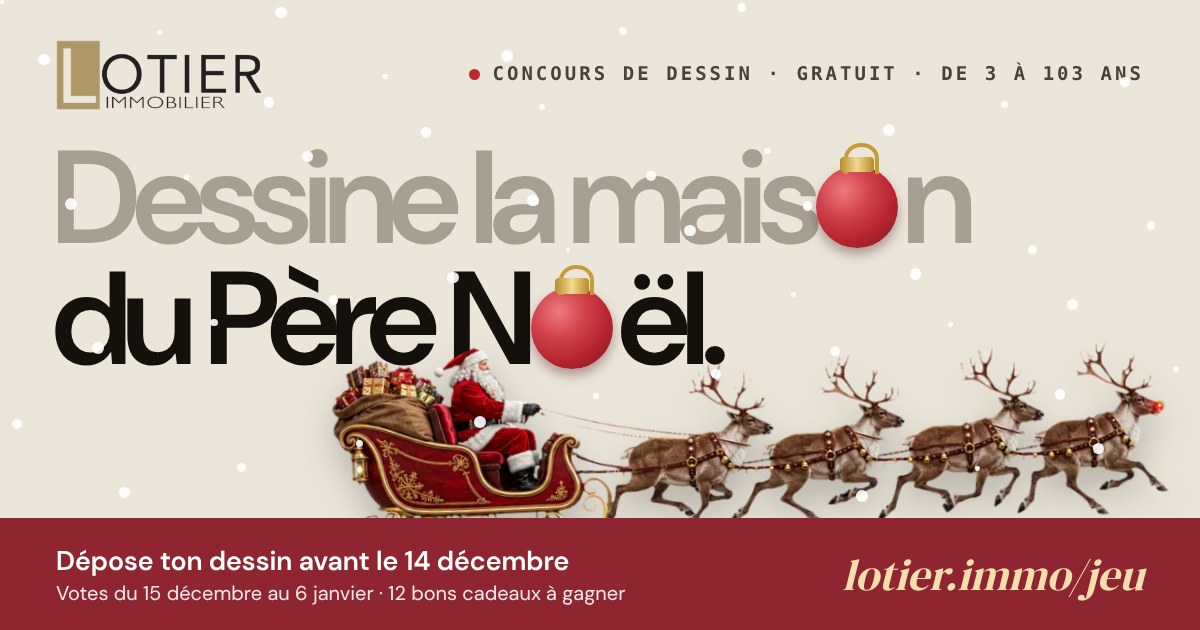
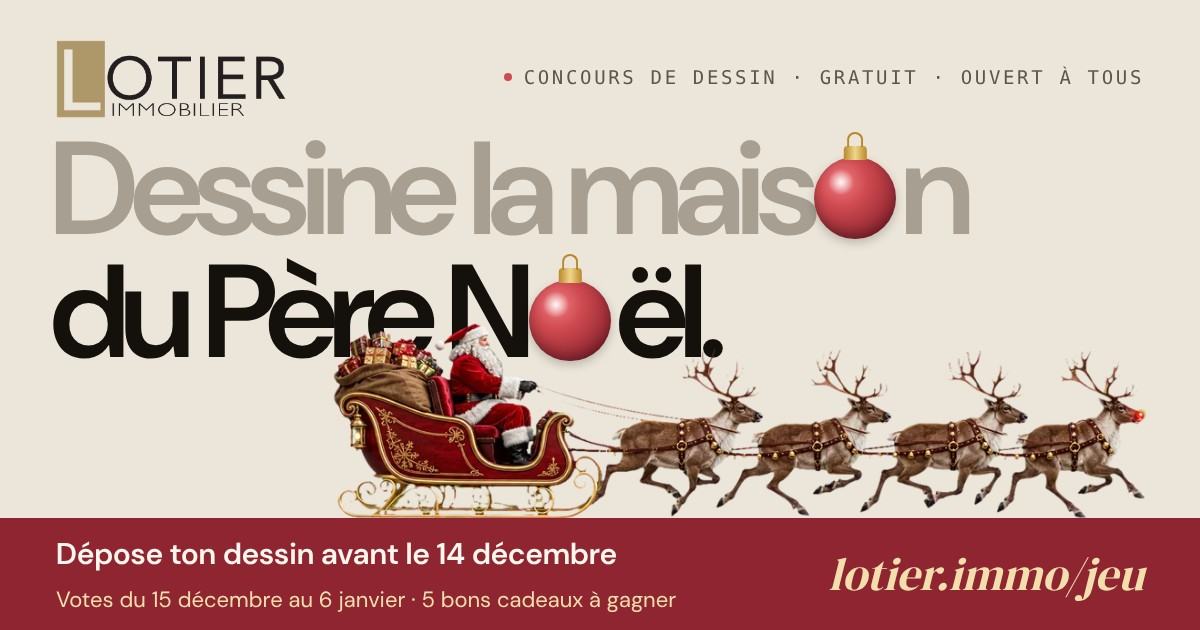
Concours : « 5 bons cadeaux » partout (page, défilé, image de partage)
Claude-Session: https://claude.ai/code/session_01TzcMvFYgUpXpvWhQ7bZTnV

diff --git a/jeu/index.php b/jeu/index.php
@@ -42,7 +42,7 @@ function carte(array $d, string $phase, int $rang = 0): string {
 }
 $titre = $vedette ? 'Le dessin de ' . $vedette['prenom'] . ' | Concours de Noël LOTIER Immobilier' : 'Concours de Noël : dessine la maison du Père Noël | LOTIER Immobilier';
 $desc = $vedette ? texte_partage($vedette, $phase) : 'Concours de dessin de Noël de LOTIER Immobilier : dessine la maison du Père Noël, dépose ton dessin avant le ' . jour_mois(fin_depots()) . ' et fais voter tes proches. Gratuit, de 3 à 103 ans.';
-$image = $vedette ? JEU_URL . 'partage.php?d=' . $vedette['jeton'] . '&p=' . $phase . '&v=2' : JEU_URL . 'partage.jpg?v=1';
+$image = $vedette ? JEU_URL . 'partage.php?d=' . $vedette['jeton'] . '&p=' . $phase . '&v=2' : JEU_URL . 'partage.jpg?v=2';
 ?><!doctype html>
 <html lang="fr">
 <head>
@@ -92,14 +92,14 @@ $image = $vedette ? JEU_URL . 'partage.php?d=' . $vedette['jeton'] . '&p=' . $ph
           <div<?= $phase === 'depot' ? ' class="ici"' : '' ?>><dt>Dépôt des dessins</dt><dd>jusqu’au <?= h(jour_court(fin_depots())) ?></dd></div>
           <div<?= $phase === 'vote' ? ' class="ici"' : '' ?>><dt>Votes, un par jour</dt><dd><?= h(jour_court(debut_votes())) ?> → <?= h(jour_court(fin_votes())) ?></dd></div>
           <div><dt>Catégories d’âge</dt><dd>4</dd></div>
-          <div><dt>À gagner</dt><dd>12 bons cadeaux</dd></div>
+          <div><dt>À gagner</dt><dd>5 bons cadeaux</dd></div>
 <?php if ($compte): ?>          <div class="fort"><dt><?= $phase === 'depot' ? 'Il reste' : 'Il reste pour voter' ?></dt><dd><?= $j <= 1 ? 'dernier jour' : $j . ' jours' ?></dd></div>
 <?php endif; ?>
         </dl>
       </div>
     </section>
 
-    <div class="defile" aria-hidden="true"><div class="piste"><span>La maison du Père Noël</span><i>✦</i><span>Concours de dessin</span><i>✦</i><span>De 3 à 103 ans</span><i>✦</i><span>Gratuit</span><i>✦</i><span>12 bons cadeaux à gagner</span><i>✦</i><span>Un vote par jour</span><i>✦</i><span>La maison du Père Noël</span><i>✦</i><span>Concours de dessin</span><i>✦</i><span>De 3 à 103 ans</span><i>✦</i><span>Gratuit</span><i>✦</i><span>12 bons cadeaux à gagner</span><i>✦</i><span>Un vote par jour</span><i>✦</i><span>La maison du Père Noël</span><i>✦</i><span>Concours de dessin</span><i>✦</i><span>De 3 à 103 ans</span><i>✦</i><span>Gratuit</span><i>✦</i><span>12 bons cadeaux à gagner</span><i>✦</i><span>Un vote par jour</span><i>✦</i><span>La maison du Père Noël</span><i>✦</i><span>Concours de dessin</span><i>✦</i><span>De 3 à 103 ans</span><i>✦</i><span>Gratuit</span><i>✦</i><span>12 bons cadeaux à gagner</span><i>✦</i><span>Un vote par jour</span><i>✦</i></div></div>
+    <div class="defile" aria-hidden="true"><div class="piste"><span>La maison du Père Noël</span><i>✦</i><span>Concours de dessin</span><i>✦</i><span>De 3 à 103 ans</span><i>✦</i><span>Gratuit</span><i>✦</i><span>5 bons cadeaux à gagner</span><i>✦</i><span>Un vote par jour</span><i>✦</i><span>La maison du Père Noël</span><i>✦</i><span>Concours de dessin</span><i>✦</i><span>De 3 à 103 ans</span><i>✦</i><span>Gratuit</span><i>✦</i><span>5 bons cadeaux à gagner</span><i>✦</i><span>Un vote par jour</span><i>✦</i><span>La maison du Père Noël</span><i>✦</i><span>Concours de dessin</span><i>✦</i><span>De 3 à 103 ans</span><i>✦</i><span>Gratuit</span><i>✦</i><span>5 bons cadeaux à gagner</span><i>✦</i><span>Un vote par jour</span><i>✦</i><span>La maison du Père Noël</span><i>✦</i><span>Concours de dessin</span><i>✦</i><span>De 3 à 103 ans</span><i>✦</i><span>Gratuit</span><i>✦</i><span>5 bons cadeaux à gagner</span><i>✦</i><span>Un vote par jour</span><i>✦</i></div></div>
 
     <section class="chiffres" aria-label="Le concours en chiffres">
       <div><b data-compte="<?= count($dessins) ?>"><?= count($dessins) ?></b><span><?= count($dessins) > 1 ? 'dessins en ligne' : 'dessin en ligne' ?></span></div>
